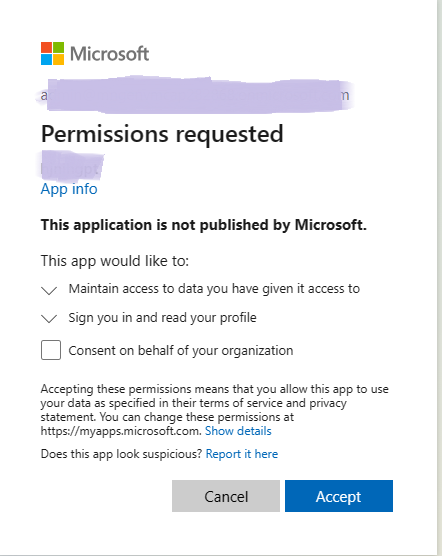
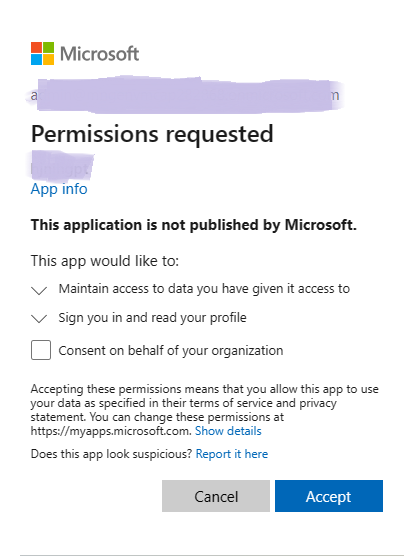
modified the image and the instructions

diff --git a/labs/Lab_On_Your_Data/lab.md b/labs/Lab_On_Your_Data/lab.md
@@ -123,12 +123,14 @@ Now that that we've confirmed that GPT is grounded on your data, we can deploy t
 
     ![Add your data](media/deploy-app-01.png)
 
-1. Select *Create a new web app*, provide it with a globally-unique **Name**. Choose your OpenAI **Subscription** and the *AOAI-OnYourData-RG* for the **Resource Group**. Next, select your preferred **Region** and *S1* for the **Pricing Plan**. Finally, click **Enable Chat History** and click **Deploy**.  You will have to **Accept** the *Permissions requested*.
+1. Select *Create a new web app*, provide it with a globally-unique **Name**. Choose your OpenAI **Subscription** and the *AOAI-OnYourData-RG* for the **Resource Group**. Next, select your preferred **Region** and *S1* for the **Pricing Plan**. Finally, click **Enable Chat History** and click **Deploy**. 
 
     ![Add your data](media/deploy-app-02.png)
+
+**Accept** the *Permissions requested* since you are deploying a new web app.
+        
     ![Add your data](media/deploy-app-02-02-new.png)
 
-  
 The deployment will take a few minutes to complete. After it is done, there'll be an additional wait of approximiately 10 minutes for Entra ID to secure the web app. Once it is complete, you'll be able to click the **Launch Web App** icon on the top right of the screen to take you to your new chat bot.  
 
 
